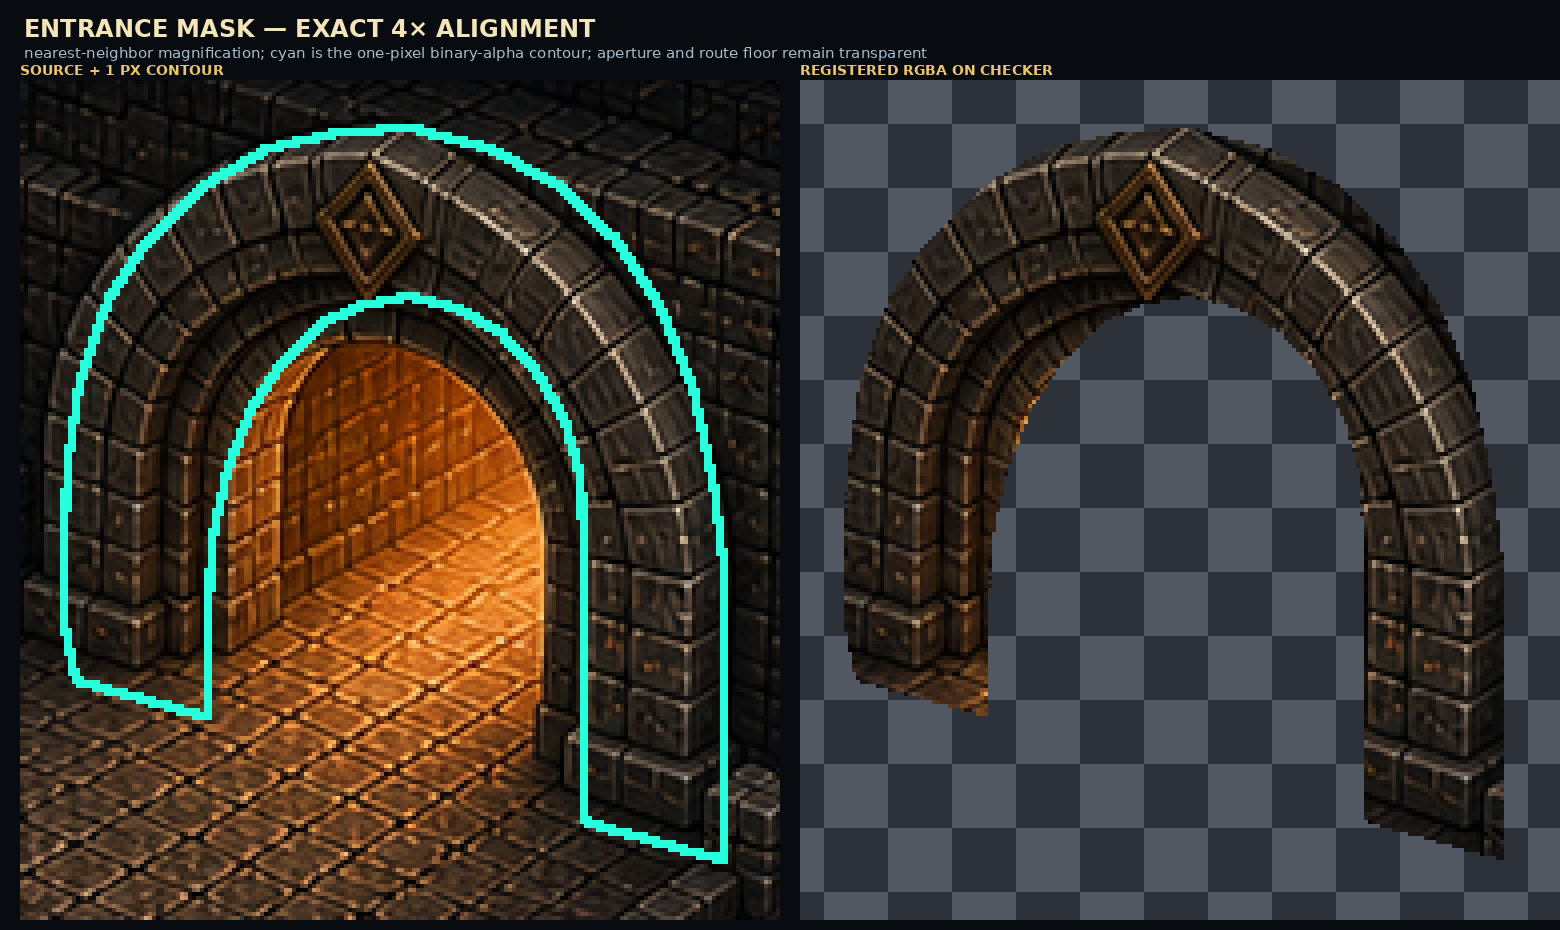
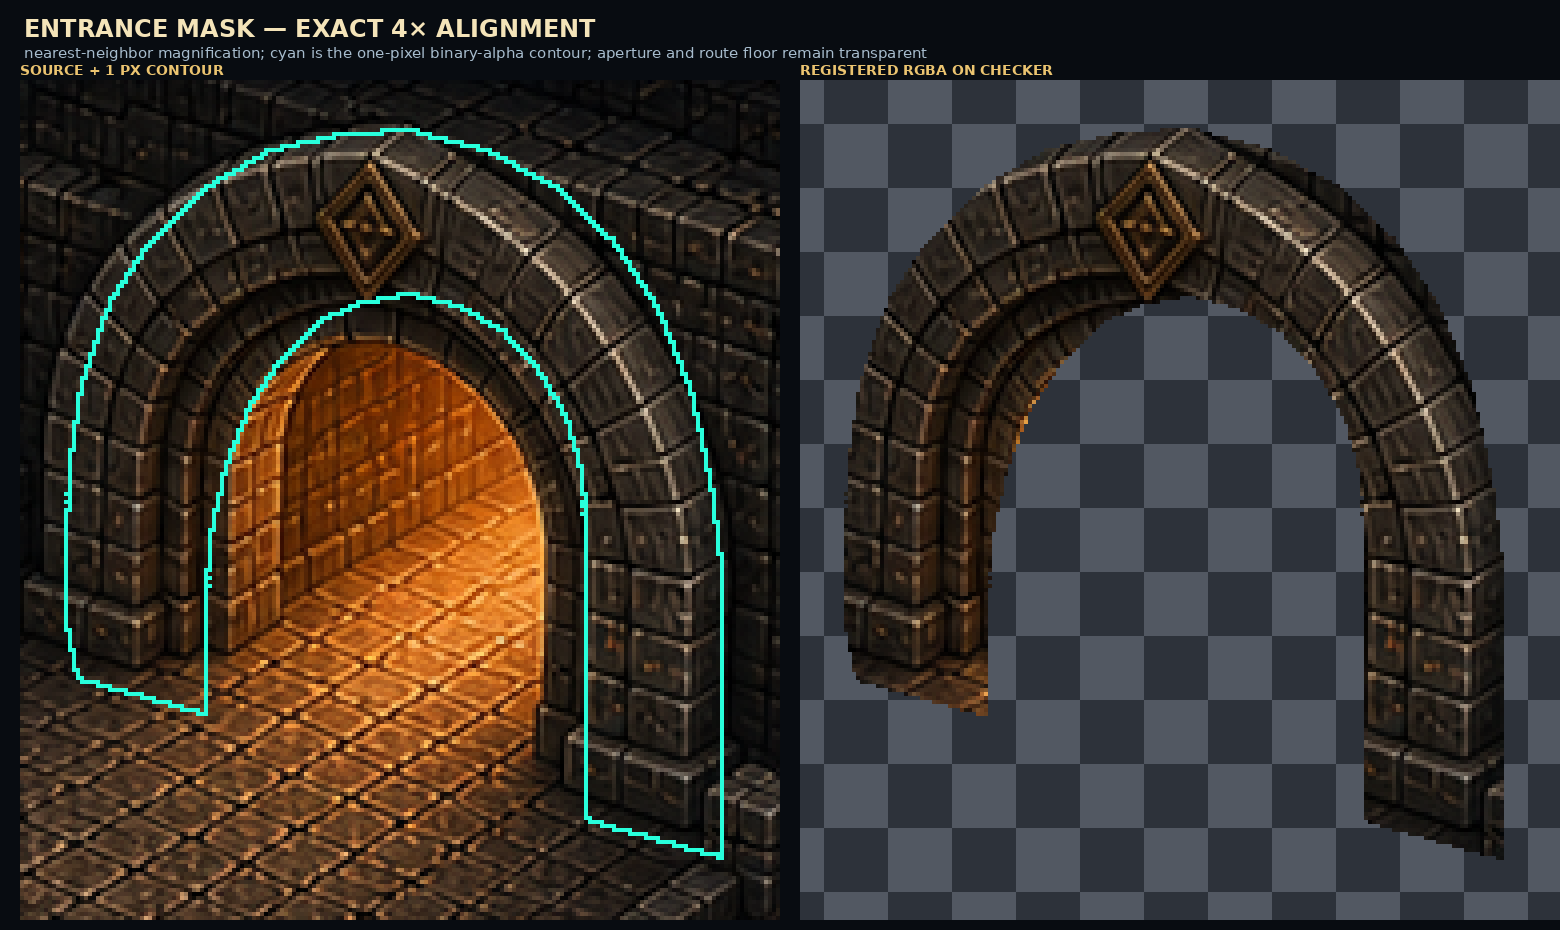
fix: render literal one-pixel mask contours

diff --git a/assets/game-art/layered-map-poc/build_poc.py b/assets/game-art/layered-map-poc/build_poc.py
@@ -97,9 +97,14 @@ def place(base:Image.Image,subject:Image.Image,ground:tuple[int,int],pivot:tuple
  base.alpha_composite(subject,(ground[0]-pivot[0],ground[1]-pivot[1]))
 
 def contour(mask:Image.Image)->Image.Image:
- dil=mask.filter(ImageFilter.MaxFilter(3))
  ero=mask.filter(ImageFilter.MinFilter(3))
- return ImageChops.difference(dil,ero)
+ return ImageChops.difference(mask,ero)
+
+def assert_contour_one_pixel()->None:
+ probe=Image.new('L',(10,10),0);ImageDraw.Draw(probe).rectangle((5,0,9,9),fill=255)
+ edge=contour(probe)
+ columns=[x for x in range(edge.width) if edge.crop((x,0,x+1,edge.height)).getbbox() is not None]
+ if columns!=[5]:raise AssertionError(f'contour must occupy one inner boundary column, got {columns}')
 
 def checker(size:tuple[int,int])->Image.Image:
  out=Image.new('RGBA',size,(45,50,58,255));d=ImageDraw.Draw(out)
@@ -247,6 +252,7 @@ def write_json(path:Path,data)->None:path.write_text(json.dumps(data,indent=2,so
 
 def build(out_root:Path)->list[Path]:
  validate_environment()
+ assert_contour_one_pixel()
  exp=out_root/'exports';ev=out_root/'evidence';meta=out_root/'metadata'
  for p in [exp/'environment',exp/'foreground',ev,meta]:p.mkdir(parents=True,exist_ok=True)
  plate=prepare_plate();plate_path=exp/'environment/layered-shuttergate-clean-plate-1280x720.png';plate.save(plate_path,optimize=False,compress_level=9)
